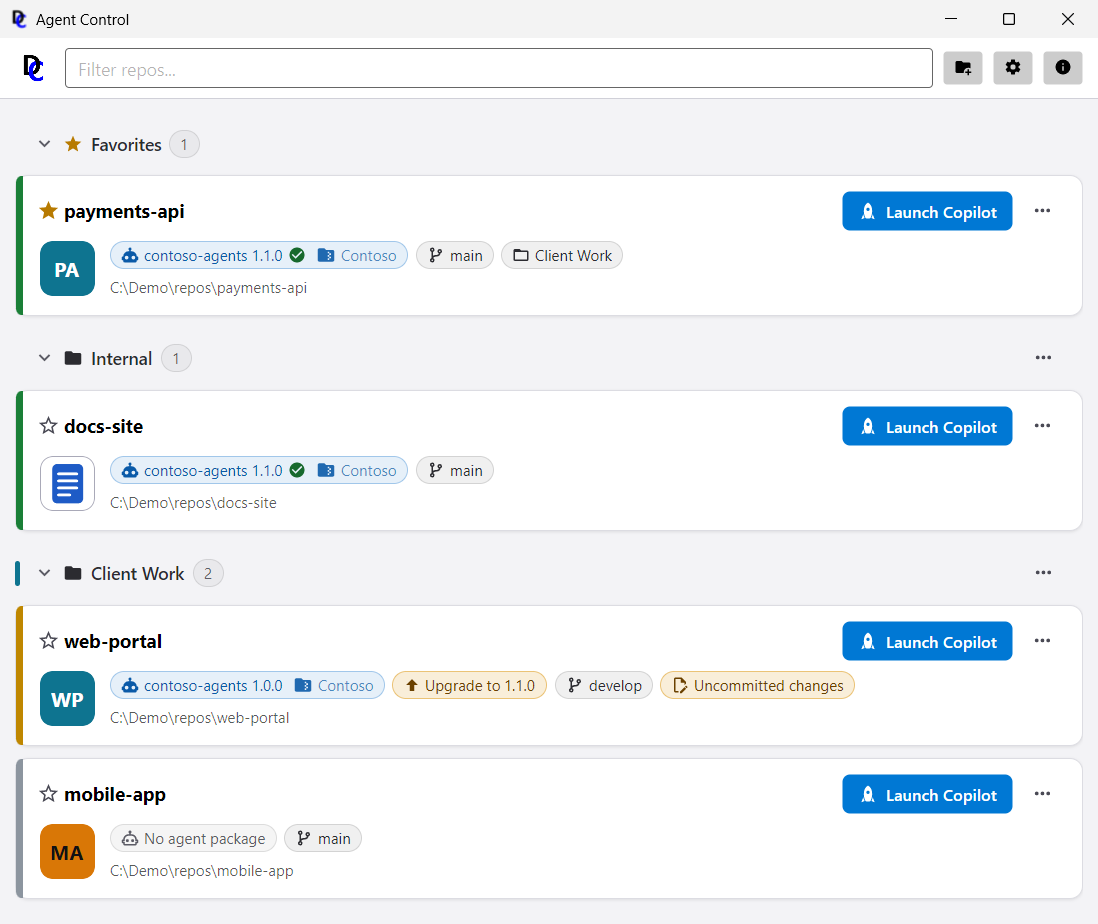
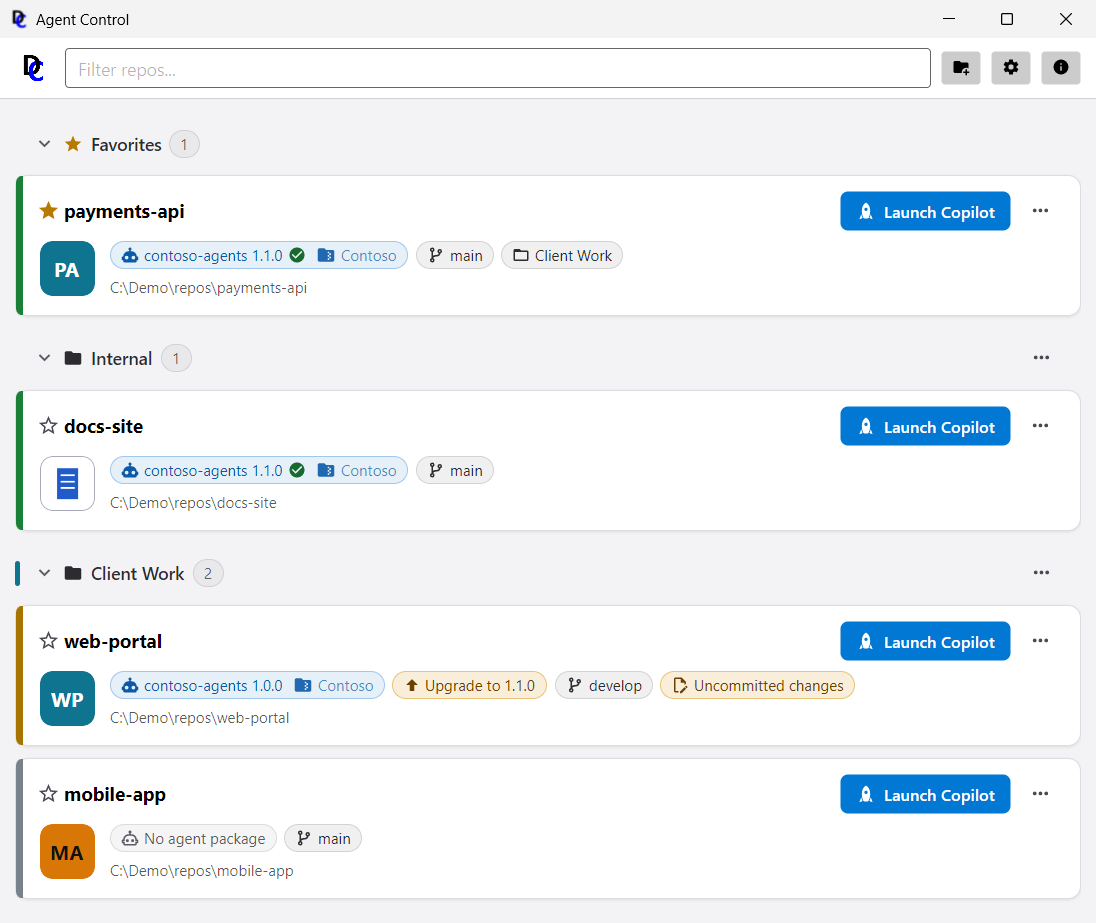
Refresh the user guide pictures of the group and card menus
Refresh group-menu.png (New subgroup, Move into group, Sort by name, the two delete
items), card-menu.png (Upgrade item, Move to group, Reorder) and main-window-light.png
(darker light status accents). Add nested-groups.png and multi-select.png, and remove
the temporary "menu as it was before" paragraph. The pictures were taken with the
AgentControl Puppet in an isolated fixture sandbox with sample data only.

diff --git a/docs/user_guide/introduction.md b/docs/user_guide/introduction.md
@@ -217,9 +217,10 @@ Each repo card shows:
 ![A card with the repo's own picture and an up-to-date package, a group header with its teal color bar, and a card
 with a teal tile from its group, an upgrade chip and an uncommitted-changes warning](images/repo-card-anatomy.png)
 
-![The open "..." menu of a card: Git Pull and Refresh under Repository, Change package... under Agent files, Move to
-group, Reorder (its submenu open, with Move to top, Move up, Move down and Move to bottom) and Card color under
-Organize, and Remove from list](images/card-menu.png)
+![The open "..." menu of a card: Git Pull (disabled, as the working tree has uncommitted changes) and Refresh under
+Repository, Change package... and Upgrade to 1.1.0 under Agent files, Move to group, Reorder (its submenu open, with
+Move to top and Move up disabled, as the card is the first of its group, and Move down and Move to bottom) and Card
+color... under Organize, and Remove from list](images/card-menu.png)
 
 Removing a repo from the list prompts for confirmation first, since it is a destructive
 action against AgentControl's own repo list state (it does not touch the repository
@@ -274,12 +275,10 @@ separator **Rename group...** (the same prompt; another group's name is refused)
 **Delete group, keep contents** and **Delete group and its contents** (see *Deleting a Group*). Nothing on disk
 changes. The built-in **Favorites** and **Ungrouped** headers have no menu.
 
-![The open "..." menu of the Client Work group header, which has a teal color bar: Add repository..., then Move up,
-Move down (disabled, as Client Work is the last group) and Group color..., then Rename group... and Remove
-group](images/group-menu.png)
-
-The picture shows the menu as it was before **New subgroup...**, **Move into group**, **Sort by name** and **Delete
-group and its contents** were added, and with the delete item named **Remove group**.
+![The open "..." menu of the Client Work group header, which has a teal color bar: Add repository... and New
+subgroup..., then Move up, Move down (disabled, as Client Work is the last group), Move into group (with a submenu),
+Sort by name and Group color..., then Rename group..., Delete group, keep contents and Delete group and its
+contents](images/group-menu.png)
 
 The **filter box** always searches all repos: while it has text, every section is shown expanded and a section
 without a match disappears, so a repo is never hidden inside a collapsed group; clear the filter and your collapsed
@@ -295,6 +294,10 @@ group it is inside. A header's count is the number of repos in the whole group, 
 accessible name says which group it is inside (for example "Phase 1, 2 repos, expanded, inside Work"). Collapsing a
 group hides everything inside it. Headers and cards are drawn further in for each level only down to the eighth level:
 a group nested deeper looks as deep as level 8, and its accessible name still says which group it is inside.
+
+![Nested groups: the top-level group Client Work, with a teal color bar and a count of 4 repos, is followed by its
+subgroups Phase 1 (web-portal and mobile-app) and Phase 2 (search-service), whose headers and cards are drawn further
+in, and then by its own repo payments-api](images/nested-groups.png)
 
 - **Create a subgroup.** Choose **New subgroup...** in the "..." menu of the group that is to contain it and type a
   name. The prompt checks the name as you type like the **New group...** prompt does, and also refuses the name of
@@ -367,6 +370,10 @@ in the tree go with the group. **Favorites** and **Ungrouped** cannot be deleted
 You can select more than one repo card, to move them together or to remove them in one step. The selected cards are
 drawn with a tinted background and a stronger border, so the selection does not depend on color alone, and screen
 readers report each card as selected (and that the list allows several selected items).
+
+![The main window in the light theme with the three cards of the Client Work group selected - each is drawn with a
+tinted background and a stronger border - and the "..." menu of web-portal open, whose items read "Move 3
+selected repos to group" and "Remove 3 selected repos from list"](images/multi-select.png)
 
 - **Ctrl+click** a card adds it to the selection or, when it is selected, takes it out. A plain **click** selects
   just that card.
